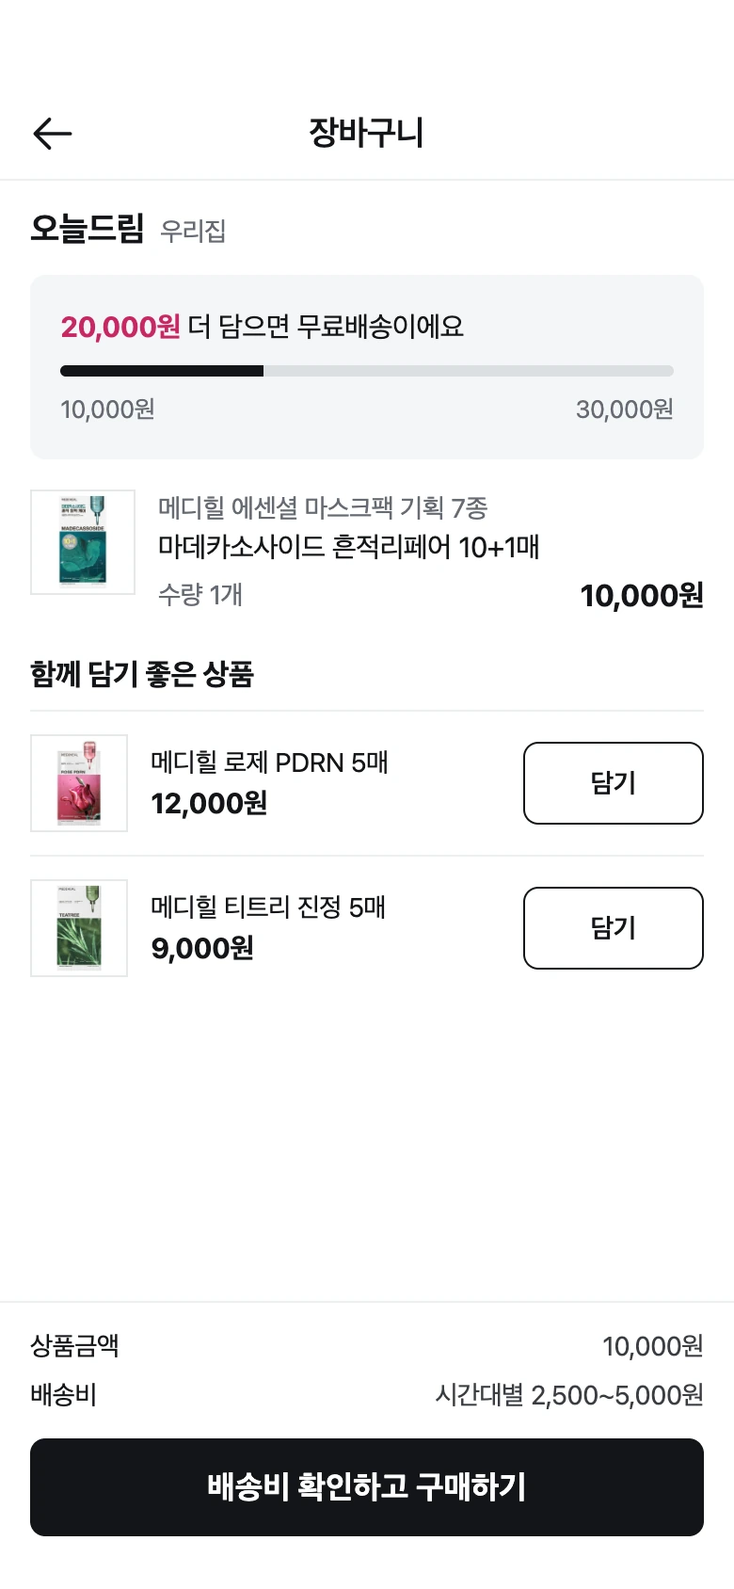
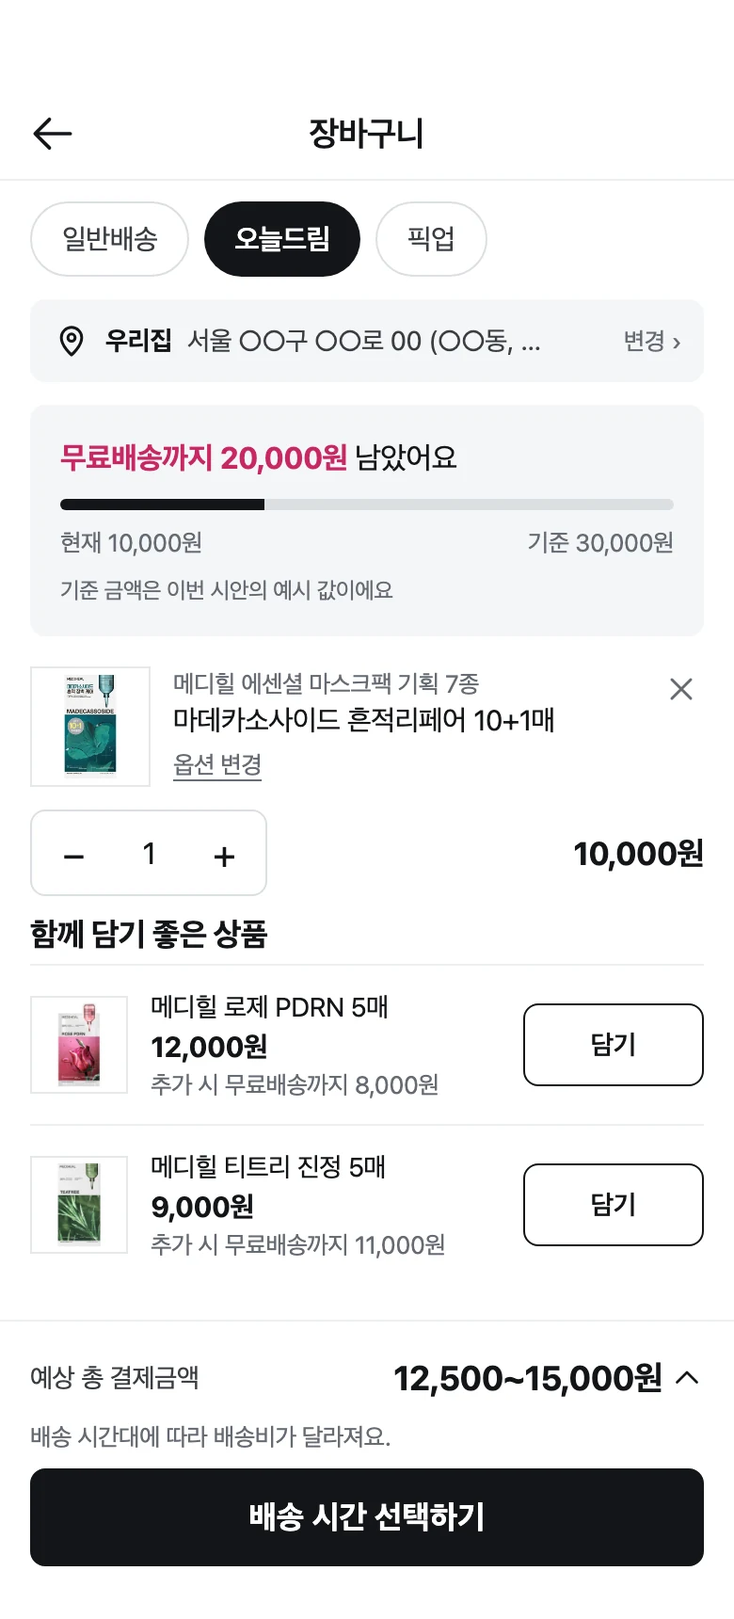
feat: 올리브영 장바구니 개편 반영(프로토타입 장바구니→배송 시간 선택 흐름, 장바구니 이미지, 설명 문구)

diff --git a/public/proto/oliveyoung/index.html b/public/proto/oliveyoung/index.html
@@ -128,24 +128,44 @@
   </sc-if>
 
   <sc-if value="{{isCart}}" hint-placeholder-val="{{ false }}">
-    <div style="position:absolute;left:0;right:0;top:47px;height:48px;display:grid;grid-template-columns:56px 1fr 56px;align-items:center;text-align:center;border-bottom:1px solid #EEEFF1"><button aria-label="시나리오 선택으로" onClick="{{restart}}" style="width:44px;height:44px;margin-left:6px;border:0;background:none;display:flex;align-items:center;justify-content:center"><svg width="28" height="28" viewBox="0 0 24 24" fill="none" stroke="#131518" stroke-width="1.6" stroke-linecap="round" stroke-linejoin="round" aria-hidden="true"><path d="M20 12H4.5M10.5 5.5L4 12l6.5 6.5"></path></svg></button><span style="font-size:18px;font-weight:600">장바구니</span><span></span></div>
-    <div style="position:absolute;left:0;right:0;top:96px;bottom:176px;overflow-y:auto;box-sizing:border-box"><div style="padding:16px">
-      <div style="font-size:18px;font-weight:700">오늘드림 <span style="font-size:14px;font-weight:400;color:#666B73;margin-left:4px">우리집</span></div>
+    <div style="position:absolute;left:0;right:0;top:47px;height:48px;display:grid;grid-template-columns:56px 1fr 56px;align-items:center;text-align:center;border-bottom:1px solid #EEEFF1"><button aria-label="처음으로" onClick="{{restart}}" style="width:44px;height:44px;margin-left:6px;border:0;background:none;display:flex;align-items:center;justify-content:center"><svg width="28" height="28" viewBox="0 0 24 24" fill="none" stroke="#131518" stroke-width="1.6" stroke-linecap="round" stroke-linejoin="round" aria-hidden="true"><path d="M20 12H4.5M10.5 5.5L4 12l6.5 6.5"></path></svg></button><span style="font-size:18px;font-weight:600">장바구니</span><span></span></div>
+    <div style="position:absolute;left:0;right:0;top:96px;bottom:176px;overflow-y:auto;box-sizing:border-box"><div style="padding:12px 16px 16px">
+      <div style="display:flex;gap:8px"><span style="height:40px;padding:0 16px;border-radius:20px;border:1px solid #DCDFE3;color:#3A3D42;font-size:15px;display:flex;align-items:center;box-sizing:border-box">일반배송</span><span style="height:40px;padding:0 16px;border-radius:20px;background:#131518;color:#fff;font-size:15px;font-weight:600;display:flex;align-items:center">오늘드림</span><span style="height:40px;padding:0 16px;border-radius:20px;border:1px solid #DCDFE3;color:#3A3D42;font-size:15px;display:flex;align-items:center;box-sizing:border-box">픽업</span></div>
+      <button onClick="{{changeAddr}}" aria-label="배송지 변경" style="margin-top:12px;width:100%;height:44px;border:0;border-radius:8px;background:#F5F6F8;padding:0 12px;display:flex;align-items:center;gap:8px;font-family:inherit;font-size:14px;color:#131518;text-align:left;letter-spacing:-0.3px"><svg width="20" height="20" viewBox="0 0 24 24" fill="none" stroke="#131518" stroke-width="1.8" stroke-linecap="round" stroke-linejoin="round" aria-hidden="true"><path d="M12 21s-6.5-5.6-6.5-11a6.5 6.5 0 0113 0c0 5.4-6.5 11-6.5 11z"></path><circle cx="12" cy="10" r="2.3"></circle></svg><b style="flex:none">우리집</b><span style="flex:1;min-width:0;white-space:nowrap;overflow:hidden;text-overflow:ellipsis;color:#3A3D42">서울 ○○구 ○○로 00 (○○동, …</span><span style="flex:none;color:#666B73;font-size:13px">변경 ›</span></button>
+      <sc-if value="{{addrCheck}}" hint-placeholder-val="{{ false }}"><div style="margin-top:12px;padding:12px 16px;border-radius:8px;background:#F5F6F8"><div style="font-size:14px;line-height:20px;font-weight:600">배송지를 확인하고 있어요</div><div style="font-size:13px;line-height:18px;color:#666B73;margin-top:2px">오늘드림 가능 여부, 추천 상품 재고, 배송 시간, 배송비를 다시 확인해요.</div></div></sc-if>
       <div style="margin-top:12px;padding:16px;border-radius:8px;background:#F5F6F8">
-        <sc-if value="{{notFree}}" hint-placeholder-val="{{ true }}"><div style="font-size:15px;line-height:22px"><b style="color:#C72764">{{remainText}}</b> 더 담으면 무료배송이에요</div></sc-if>
-        <sc-if value="{{freeShip}}" hint-placeholder-val="{{ false }}"><div style="font-size:15px;line-height:22px;font-weight:600">무료배송 조건을 채웠어요</div></sc-if>
+        <sc-if value="{{notFree}}" hint-placeholder-val="{{ true }}"><div style="font-size:16px;line-height:24px"><b style="color:#C72764">무료배송까지 {{remainText}}</b> 남았어요</div></sc-if>
+        <sc-if value="{{freeShip}}" hint-placeholder-val="{{ false }}"><div style="font-size:16px;line-height:24px;font-weight:700">무료배송 조건을 충족했어요</div></sc-if>
         <div style="margin-top:10px;height:6px;border-radius:3px;background:#DCDFE3;overflow:hidden"><div style="height:6px;background:#131518;width:{{progressPct}}"></div></div>
-        <div style="display:flex;justify-content:space-between;margin-top:6px;font-size:13px;color:#666B73"><span>{{subtotalText}}</span><span>30,000원</span></div>
+        <div style="display:flex;justify-content:space-between;margin-top:6px;font-size:13px;color:#666B73"><span>{{currentText}}</span><span>기준 30,000원</span></div>
+        <div style="margin-top:6px;font-size:12px;line-height:17px;color:#666B73">{{cardCaption}}</div>
       </div>
[1 lines of base64/hex data omitted]
-      <sc-for list="{{addedItems}}" as="a" hint-placeholder-count="0"><div style="display:flex;gap:12px;align-items:center;padding:12px 0;border-top:1px solid #EEEFF1"><div style="flex:none;width:56px;height:56px;border:1px solid #E6E8EA;background:#fff;display:flex;align-items:center;justify-content:center;overflow:hidden;box-sizing:border-box"><img src="{{a.img}}" alt="" style="height:50px;width:auto"></div><div style="flex:1;min-width:0"><div style="font-size:15px">{{a.name}}</div><div style="font-size:14px;color:#666B73">수량 1개 · {{a.priceText}}</div></div></div></sc-for>
-      <div style="font-size:16px;font-weight:700;margin-top:4px;padding-bottom:8px">함께 담기 좋은 상품</div>
-      <sc-for list="{{recs}}" as="r" hint-placeholder-count="2"><div style="display:flex;gap:12px;align-items:center;padding:12px 0;border-top:1px solid #EEEFF1"><div style="flex:none;width:52px;height:52px;border:1px solid #E6E8EA;background:#fff;display:flex;align-items:center;justify-content:center;overflow:hidden;box-sizing:border-box"><img src="{{r.img}}" alt="" style="height:46px;width:auto"></div><div style="flex:1;min-width:0"><div style="font-size:14px;line-height:20px">{{r.name}}</div><div style="font-size:15px;font-weight:700">{{r.priceText}}</div></div><button onClick="{{r.toggle}}" aria-pressed="{{r.added}}" style="{{r.btnStyle}}">{{r.btnText}}</button></div></sc-for>
+      <div style="display:flex;gap:12px;padding:16px 0 12px"><div style="flex:none;width:64px;height:64px;border:1px solid #E6E8EA;background:#fff;display:flex;align-items:center;justify-content:center;overflow:hidden;box-sizing:border-box"><img src="{{madeImg}}" alt="" style="height:56px;width:auto;max-width:100%"></div><div style="flex:1;min-width:0"><div style="font-size:13px;line-height:18px;color:#666B73">메디힐 에센셜 마스크팩 기획 7종</div><div style="font-size:15px;line-height:21px">마데카소사이드 흔적리페어 10+1매</div><div style="margin-top:2px;font-size:13px;color:#666B73;text-decoration:underline;text-underline-offset:3px">옵션 변경</div></div></div>
+      <div style="display:flex;justify-content:space-between;align-items:center"><div style="display:flex;align-items:center;border:1px solid #DCDFE3;border-radius:8px;height:44px"><button aria-label="수량 줄이기" onClick="{{qtyMinus}}" style="{{minusStyle}}">−</button><span style="width:36px;text-align:center;font-size:16px">{{qtyNum}}</span><button aria-label="수량 늘리기" onClick="{{qtyPlus}}" style="{{plusStyle}}">+</button></div><b style="font-size:17px">{{mainPriceText}}</b></div>
+      <sc-for list="{{addedItems}}" as="a" hint-placeholder-count="0"><div style="display:flex;gap:12px;align-items:center;padding:12px 0;margin-top:12px;border-top:1px solid #EEEFF1"><div style="flex:none;width:56px;height:56px;border:1px solid #E6E8EA;background:#fff;display:flex;align-items:center;justify-content:center;overflow:hidden;box-sizing:border-box"><img src="{{a.img}}" alt="" style="height:50px;width:auto"></div><div style="flex:1;min-width:0"><div style="font-size:15px">{{a.name}}</div><div style="font-size:14px;color:#666B73">수량 1개 · {{a.priceText}}</div></div><button aria-label="삭제" onClick="{{a.remove}}" style="flex:none;width:44px;height:44px;margin-right:-10px;border:0;background:none;display:flex;align-items:center;justify-content:center"><svg width="20" height="20" viewBox="0 0 24 24" fill="none" stroke="#666B73" stroke-width="1.8" stroke-linecap="round" aria-hidden="true"><path d="M6 6l12 12M18 6L6 18"></path></svg></button></div></sc-for>
+      <div style="font-size:17px;line-height:24px;font-weight:700;margin-top:16px;padding-bottom:4px">함께 담기 좋은 상품</div>
+      <sc-for list="{{recs}}" as="r" hint-placeholder-count="2"><div style="display:flex;gap:12px;align-items:center;padding:12px 0;border-top:1px solid #EEEFF1"><div style="flex:none;width:52px;height:52px;border:1px solid #E6E8EA;background:#fff;display:flex;align-items:center;justify-content:center;overflow:hidden;box-sizing:border-box"><img src="{{r.img}}" alt="" style="height:46px;width:auto"></div><div style="flex:1;min-width:0"><div style="font-size:14px;line-height:20px">{{r.name}}</div><div style="font-size:15px;font-weight:700">{{r.priceText}}</div><div style="font-size:13px;line-height:18px;color:#666B73">{{r.hint}}</div></div><button onClick="{{r.toggle}}" aria-disabled="{{r.blocked}}" style="{{r.btnStyle}}">{{r.btnText}}</button></div></sc-for>
     </div></div>
+    <div style="position:absolute;left:0;right:0;bottom:0;padding:8px 16px 28px;background:#FFFFFF;border-top:1px solid #EEEFF1">
+      <sc-if value="{{cartOpen}}" hint-placeholder-val="{{ false }}"><div style="padding:4px 0 8px"><div style="display:flex;justify-content:space-between;font-size:14px;color:#3A3D42"><span>상품금액</span><span>{{subtotalText}}</span></div><div style="display:flex;justify-content:space-between;font-size:14px;color:#3A3D42;margin-top:4px"><span>예상 배송비</span><span>{{cartFeeLine}}</span></div></div></sc-if>
+      <button onClick="{{cartToggle}}" aria-expanded="{{cartOpen}}" style="width:100%;display:flex;justify-content:space-between;align-items:center;min-height:44px;padding:0;border:0;background:none;font-family:inherit;letter-spacing:-0.3px;color:#131518"><span style="font-size:14px;color:#3A3D42">예상 총 결제금액</span><span style="display:flex;align-items:center;gap:4px;font-size:18px;font-weight:700">{{cartTotalText}}<svg width="18" height="18" viewBox="0 0 24 24" fill="none" stroke="#131518" stroke-width="1.8" stroke-linecap="round" stroke-linejoin="round" aria-hidden="true"><path d="{{cartChevron}}"></path></svg></span></button>
+      <div style="font-size:13px;line-height:18px;color:#666B73;margin-bottom:8px">{{cartHelper}}</div>
+      <button onClick="{{goSlot}}" aria-disabled="{{addrCheck}}" style="{{cartCtaStyle}}">{{cartCtaText}}</button>
+    </div>
+  </sc-if>
+
+  <sc-if value="{{isSlot}}" hint-placeholder-val="{{ false }}">
+    <div style="position:absolute;left:0;right:0;top:47px;height:48px;display:grid;grid-template-columns:56px 1fr 56px;align-items:center;text-align:center;border-bottom:1px solid #EEEFF1"><button aria-label="장바구니로" onClick="{{slotBack}}" style="width:44px;height:44px;margin-left:6px;border:0;background:none;display:flex;align-items:center;justify-content:center"><svg width="28" height="28" viewBox="0 0 24 24" fill="none" stroke="#131518" stroke-width="1.6" stroke-linecap="round" stroke-linejoin="round" aria-hidden="true"><path d="M20 12H4.5M10.5 5.5L4 12l6.5 6.5"></path></svg></button><span style="font-size:18px;font-weight:600">배송 시간 선택</span><span></span></div>
+    <div style="position:absolute;left:0;right:0;top:96px;bottom:176px;overflow-y:auto;box-sizing:border-box;padding:16px 16px 0">
+      <div style="font-size:15px;line-height:22px;color:#3A3D42">원하는 도착 시간과 배송비를 비교해 선택해 주세요.</div>
+      <sc-for list="{{slotChoices}}" as="t" hint-placeholder-count="3"><button onClick="{{t.pick}}" role="radio" aria-checked="{{t.selected}}" style="{{t.cardStyle}}"><span style="{{t.radioStyle}}"></span><span style="{{t.timeStyle}}">{{t.time}}</span><b style="font-size:17px">{{t.feeText}}</b></button></sc-for>
+      <div style="margin-top:16px;font-size:12px;line-height:17px;color:#666B73">시간과 배송비는 테스트 시나리오 값이에요. 실시간 배송 가능 정보가 아니에요.</div>
+    </div>
     <div style="position:absolute;left:0;right:0;bottom:0;padding:12px 16px 28px;background:#FFFFFF;border-top:1px solid #EEEFF1">
       <div style="display:flex;justify-content:space-between;font-size:14px;color:#3A3D42"><span>상품금액</span><span>{{subtotalText}}</span></div>
-      <div style="display:flex;justify-content:space-between;font-size:14px;color:#3A3D42;margin-top:4px"><span>배송비</span><span>{{cartFeeText}}</span></div>
-      <div style="margin-top:12px"><button onClick="{{goCheckout}}" style="height:52px;width:100%;font-size:17px;font-weight:700;font-family:inherit;border-radius:8px;background:#131518;color:#FFFFFF;border:1px solid #131518">배송비 확인하고 구매하기</button></div>
+      <div style="display:flex;justify-content:space-between;font-size:14px;color:#3A3D42;margin-top:4px"><span>배송비</span><span>{{slotFeeText}}</span></div>
+      <div style="display:flex;justify-content:space-between;align-items:baseline;margin-top:10px;padding-top:10px;border-top:1px solid #EEEFF1"><span style="font-size:15px;font-weight:600">예상 결제금액</span><b style="font-size:20px">{{slotTotalText}}</b></div>
+      <div style="margin-top:12px"><button onClick="{{slotContinue}}" aria-disabled="{{slotNone}}" style="{{slotCtaStyle}}">이 시간으로 계속하기</button></div>
     </div>
   </sc-if>
 

diff --git a/public/proto/oliveyoung/app.js b/public/proto/oliveyoung/app.js
@@ -63,7 +63,7 @@ class Component extends DCLogic {
     this.state = this.fresh(START, 'A');
   }
   fresh(screen, flow) {
-    return { screen: screen, flow: flow, panelOpen: false, recv: 'today', altStage: 'checking', altSel: null, stdTry: 0, stores: { E: 'fail', F: 'closed' }, query: '서울 구로구', intent: 'buy', dTried: false, pickStore: null, method: 'today', slot: 's1', recs: {}, g1Open: false, benefitsOpen: false, teaStage: 'fail', stdInfoOpen: false, optSel: null, qty: 1, optMode: 'A', usePoint: false, agree: false, triedPay: false, stockHit: false, restocked: false, returnTo: 'alt' };
+    return { screen: screen, flow: flow, panelOpen: false, recv: 'today', altStage: 'checking', altSel: null, stdTry: 0, stores: { E: 'fail', F: 'closed' }, query: '서울 구로구', intent: 'buy', dTried: false, pickStore: null, method: 'today', slot: 's1', recs: {}, slotSel: null, cartOpen: false, addrCheck: false, g1Open: false, benefitsOpen: false, teaStage: 'fail', stdInfoOpen: false, optSel: null, qty: 1, optMode: 'A', usePoint: false, agree: false, triedPay: false, stockHit: false, restocked: false, returnTo: 'alt' };
   }
   componentWillUnmount() { this.timers.forEach(function (t) { clearTimeout(t); }); }
   later(fn, ms) { this.timers.push(setTimeout(fn, ms)); }
@@ -186,13 +186,17 @@ class Component extends DCLogic {
       };
     });
     const productName = isC ? '마데카소사이드 흔적리페어 10+1매' : '로제 PDRN 모공결광 10매';
-    const addedItems = recDefs.filter((r) => st.recs[r.id]).map((r) => ({ name: r.name, img: r.img, priceText: fmt(r.price) }));
+    const recImg = { r1: IMG.rose, r2: IMG.tea };
+    const addedItems = recDefs.filter((r) => st.recs[r.id]).map((r) => ({ name: r.name, img: recImg[r.id], priceText: fmt(r.price), remove: () => { const n = Object.assign({}, this.state.recs); n[r.id] = false; this.setState({ recs: n }); } }));
     const recs = recDefs.map((r) => {
       const added = !!st.recs[r.id];
+      const after = subtotal + r.price;
+      const hint = added ? '장바구니에 담았어요' : (st.addrCheck ? '재고 확인 중' : (free ? '무료배송 조건을 충족한 상태예요' : (after >= 30000 ? '추가하면 무료배송 조건을 충족해요' : '추가 시 무료배송까지 ' + fmt(30000 - after))));
+      const blocked = added || st.addrCheck;
       return {
-        name: r.name, img: r.img, priceText: fmt(r.price), added: added, btnText: added ? '담김' : '담기',
-        toggle: () => { const n = Object.assign({}, this.state.recs); n[r.id] = !n[r.id]; this.setState({ recs: n }); },
-        btnStyle: 'flex:none;width:96px;height:44px;border-radius:8px;font-size:14px;font-family:inherit;' + (added ? 'border:1px solid #DCDFE3;background:#F5F6F8;color:#3A3D42' : 'border:1px solid #131518;background:#FFFFFF;color:#131518;font-weight:600')
+        name: r.name, img: recImg[r.id], priceText: fmt(r.price), added: added, hint: hint, blocked: blocked, btnText: added ? '추가됨' : (st.addrCheck ? '확인 중' : '담기'),
+        toggle: () => { if (blocked) return; const n = Object.assign({}, this.state.recs); n[r.id] = true; this.setState({ recs: n }); },
+        btnStyle: 'flex:none;width:96px;height:44px;border-radius:8px;font-size:14px;font-family:inherit;' + (blocked ? 'border:1px solid #DCDFE3;background:#F5F6F8;color:#3A3D42' : 'border:1px solid #131518;background:#FFFFFF;color:#131518;font-weight:600')
       };
     });
     const doneMethod = st.method === 'today' ? '오늘드림 · 11/17 ' + times[st.slot] : st.method === 'pickup' ? '매장 픽업 · ' + storeName : '일반배송';
@@ -220,7 +224,7 @@ class Component extends DCLogic {
       flowLabel: !SCENARIOS ? '' : sc === 'home' ? '프로토타입 · 시뮬레이션' : 'Flow ' + (flow === 'S' ? 'G' : flow) + ' · 시뮬레이션',
       showDetail: ['detail', 'options', 'alt', 'restock', 'restockDone'].indexOf(sc) >= 0,
       isOptions: sc === 'options', isAlt: sc === 'alt', isRestock: sc === 'restock', isRestockDone: sc === 'restockDone',
-      isStore: sc === 'store', isCart: sc === 'cart', isCheckout: sc === 'checkout' || sc === 'stockChanged', isStockChanged: sc === 'stockChanged', isDone: sc === 'done',
+      isStore: sc === 'store', isCart: sc === 'cart', isSlot: sc === 'slot', isCheckout: sc === 'checkout' || sc === 'stockChanged', isStockChanged: sc === 'stockChanged', isDone: sc === 'done',
       startA: () => this.setState(this.fresh('detail', 'A')),
       startB: () => this.setState(this.fresh('detail', 'B')),
       startC: () => this.setState(this.fresh('detail', 'C')),
@@ -308,10 +312,34 @@ class Component extends DCLogic {
       productName: productName, productImg: isC ? IMG.made : IMG.roseS,
       freeShip: free, notFree: !free,
       remainText: fmt(Math.max(0, 30000 - subtotal)),
-      progressPct: Math.min(100, Math.round(subtotal / 300)) + '%',
+      progressPct: +Math.min(100, subtotal / 300).toFixed(1) + '%',
       subtotalText: fmt(subtotal),
       cartFeeText: free ? '무료' : '배송 시간에 따라 2,500~5,000원',
-      recs: recs, addedItems: addedItems,
+      recs: recs, addedItems: addedItems, madeImg: IMG.made, currentText: '현재 ' + fmt(subtotal),
+      cardCaption: free ? '실제 무료배송 적용 여부는 선택한 배송 조건에 따라 다시 확인해요' : '기준 금액은 이번 시안의 예시 값이에요',
+      qtyNum: st.qty, mainPriceText: fmt(10000 * st.qty),
+      qtyMinus: () => { if (this.state.qty > 1) this.setState({ qty: this.state.qty - 1 }); },
+      qtyPlus: () => { if (this.state.qty < 5) this.setState({ qty: this.state.qty + 1 }); },
+      minusStyle: 'width:44px;height:44px;border:0;background:none;font-size:20px;font-family:inherit;color:' + (st.qty <= 1 ? '#C5C9CE' : '#131518'),
+      plusStyle: 'width:44px;height:44px;border:0;background:none;font-size:20px;font-family:inherit;color:' + (st.qty >= 5 ? '#C5C9CE' : '#131518'),
+      addrCheck: st.addrCheck,
+      changeAddr: () => { if (this.state.addrCheck) return; this.setState({ addrCheck: true }); this.later(() => this.setState({ addrCheck: false }), 1100); },
+      cartOpen: st.cartOpen, cartToggle: () => this.setState({ cartOpen: !this.state.cartOpen }), cartChevron: st.cartOpen ? 'M5 9l7 7 7-7' : 'M5 15l7-7 7 7',
+      cartTotalText: free ? fmt(subtotal) : (subtotal + 2500).toLocaleString('ko-KR') + '~' + fmt(subtotal + 5000),
+      cartFeeLine: free ? '확인 후 확정 (무료 가능)' : '2,500~5,000원',
+      cartHelper: st.addrCheck ? '배송비를 다시 확인하고 있어요.' : (free ? '배송비는 배송 조건을 확인한 뒤 확정돼요.' : '배송 시간대에 따라 배송비가 달라져요.'),
+      cartCtaText: st.addrCheck ? '확인 중' : '배송 시간 선택하기',
+      cartCtaStyle: 'height:52px;width:100%;font-size:17px;font-weight:700;font-family:inherit;border-radius:8px;' + (st.addrCheck ? 'border:0;background:#DCDFE3;color:#5E636B' : 'border:1px solid #131518;background:#131518;color:#FFFFFF'),
+      goSlot: () => { if (!this.state.addrCheck) this.setState({ screen: 'slot' }); },
+      slotBack: () => this.setState({ screen: 'cart' }),
+      slotChoices: ['s1', 's2', 's3'].map((id) => { const sel = st.slotSel === id; return { time: times[id], feeText: free ? '무료' : fmt(base[id]), selected: sel, pick: () => this.setState({ slotSel: id }),
+        cardStyle: 'width:100%;display:flex;align-items:center;gap:12px;padding:16px;border-radius:12px;box-sizing:border-box;margin-top:12px;font-family:inherit;color:#131518;text-align:left;letter-spacing:-0.3px;' + (sel ? 'border:1.5px solid #131518;background:#F5F6F8' : 'border:1px solid #DCDFE3;background:#FFFFFF'),
+        radioStyle: 'flex:none;' + (sel ? rOn : rOff), timeStyle: 'flex:1;font-size:17px;line-height:24px;' + (sel ? 'font-weight:700' : 'font-weight:500') }; }),
+      slotNone: !st.slotSel,
+      slotFeeText: st.slotSel ? (free ? '무료' : fmt(base[st.slotSel])) : '시간을 선택하면 확인할 수 있어요',
+      slotTotalText: st.slotSel ? fmt(subtotal + (free ? 0 : base[st.slotSel])) : (free ? fmt(subtotal) : (subtotal + 2500).toLocaleString('ko-KR') + '~' + fmt(subtotal + 5000)),
+      slotCtaStyle: 'height:52px;width:100%;font-size:17px;font-weight:700;font-family:inherit;border-radius:8px;' + (st.slotSel ? 'border:1px solid #131518;background:#131518;color:#FFFFFF' : 'border:0;background:#DCDFE3;color:#5E636B'),
+      slotContinue: () => { if (this.state.slotSel) this.setState({ slot: this.state.slotSel, method: 'today', screen: 'checkout', intent: 'buy', g1Open: false }); },
       scrollRecs: () => { const n = Object.assign({}, this.state.recs); if (!n.r1) n.r1 = true; else n.r2 = true; this.setState({ recs: n }); },
       goCheckout: () => this.setState({ method: 'today', screen: 'checkout', intent: 'buy' }),
       checkoutBack: () => this.setState({ screen: isC ? 'cart' : 'alt' }),

diff --git a/src/pages/CaseGeneric.tsx b/src/pages/CaseGeneric.tsx
@@ -160,19 +160,20 @@ function OliveRenewed({ c }: { c: Ctx }) {
             <div className="mt-14 rounded-[28px] bg-white p-6 md:p-10">
               <p className="eyebrow" style={{ color: S }}>After · 개선안</p>
               <div className="mt-6 grid items-start gap-10 md:grid-cols-12">
-                <div className="mx-auto w-full max-w-[380px] md:col-span-5"><Fig src={I('n-cart')} alt="무료배송 남은 금액, 현재 상품, 연관 상품과 담기 버튼을 한 흐름으로 보여주는 장바구니 개선 화면" cap="무료배송 조건과 장바구니 상품 기반 연관 상품을 한 흐름에서 안내" /></div>
+                <div className="mx-auto w-full max-w-[380px] md:col-span-5"><Fig src={I('n-cart')} alt="무료배송 남은 금액, 현재 상품, 연관 상품과 담기 버튼을 한 흐름으로 보여주는 장바구니 개선 화면" cap="무료배송까지 남은 금액, 수량 조절, 추천 상품, 배송 시간 선택으로 이어지는 하단 CTA" /></div>
                 <ol className="space-y-6 md:col-span-7">
                   {[
-                    ['01', '무료배송 조건의 가시성', '현재 상품금액 10,000원, 기준 30,000원, 남은 금액 20,000원을 프로토타입 예시 조건으로 분명하게 보여줍니다.'],
-                    ['02', '구매 맥락에 맞는 연관 상품', '장바구니에 담긴 마스크팩과 함께 고려할 수 있는 메디힐 상품 두 개에 집중했습니다. AI 개인화 추천이 아니라 장바구니 상품 기반 제안입니다.'],
-                    ['03', '탐색과 행동의 거리 축소', '무료배송 조건 아래에 현재 상품과 추천 상품, 담기 버튼을 배치해 판단 직후 다음 행동으로 이어지게 했습니다.'],
+                    ['01', '무료배송 조건의 가시성', '현재 10,000원, 기준 30,000원, 남은 금액 20,000원과 진행 바(33.3%)를 한 카드에 모았습니다. 기준 금액은 프로토타입 예시 값입니다.'],
+                    ['02', '추가 구매에 따른 비용 변화', '추천 상품마다 담았을 때 무료배송까지 남는 금액을 보여주고, 담으면 진행 바와 예상 결제금액이 바로 바뀝니다. 담지 않아도 구매를 이어갈 수 있습니다.'],
+                    ['03', '배송 시간과 배송비 사전 비교', '하단 CTA를 누르면 세 시간대의 배송비를 모두 비교해 고를 수 있고, 선택에 따라 결제금액이 바뀐 채 주문/결제로 이어집니다.'],
                   ].map(([n, title, body]) => <li key={n} className="border-t border-grid pt-5"><p className="text-[13px] font-bold" style={{ color: S }}>Decision {n}</p><h4 className="mt-2 text-[20px] font-bold">{title}</h4><p className="mt-2 text-[15px] leading-[1.75] text-sub">{body}</p></li>)}
                 </ol>
               </div>
+              <div className="mt-10 grid grid-cols-2 gap-5 md:mx-auto md:max-w-[760px] md:gap-8"><Fig src={I('n-cartAdded')} alt="추천 상품을 담은 뒤 무료배송까지 8,000원 남은 장바구니" cap="추천 상품을 담으면 남은 금액 8,000원으로 갱신" /><Fig src={I('n-slotSelect')} alt="세 시간대의 배송비를 비교하고 15:00~16:00을 선택한 화면" cap="배송 시간대별 배송비 비교 후 선택" className="md:mt-14" /></div>
             </div>
             <div className="mt-10 grid gap-5 md:grid-cols-2">
-              <div className="rounded-[24px] bg-[#EAF4DB] p-6 md:p-8"><p className="eyebrow" style={{ color: S }}>Qualitative feedback</p><ul className="mt-4 space-y-3 text-[16px] leading-[1.7]"><li>무료배송까지 더 담아야 할 금액을 이해하기 쉬웠음</li><li>기존에 구매하려던 상품과 관련된 추천이 자연스럽게 느껴졌음</li><li>추천 상품을 보며 추가 구매를 긍정적으로 고려하게 됐음</li></ul><p className="mt-5 text-[13px] leading-[1.65] text-sub">정성적 반응이며 실제 추가 구매 행동이나 금액·매출 지표는 측정하지 않았습니다.</p></div>
-              <div className="rounded-[24px] border border-grid bg-white p-6 md:p-8"><p className="eyebrow text-sub">후속 보완 방향 · 미구현</p><ul className="mt-4 list-disc space-y-2 pl-5 text-[15px] leading-[1.7] text-sub"><li>옵션·수량 변경, 상품 삭제와 선택 상태 보완</li><li>배송지 확인·변경 경로 추가</li><li>실제 다음 단계에 맞는 CTA 문구 확정</li><li>상품 추가 후 금액·프로그레스·안내의 일관된 갱신</li></ul></div>
+              <div className="rounded-[24px] bg-[#EAF4DB] p-6 md:p-8"><p className="eyebrow" style={{ color: S }}>Qualitative feedback</p><ul className="mt-4 space-y-3 text-[16px] leading-[1.7]"><li>무료배송까지 더 담아야 할 금액을 이해하기 쉬웠음</li><li>기존에 구매하려던 상품과 관련된 추천이 자연스럽게 느껴졌음</li><li>추천 상품을 보며 추가 구매를 긍정적으로 고려하게 됐음</li></ul><p className="mt-5 text-[13px] leading-[1.65] text-sub">정성적 반응이며 실제 추가 구매 행동이나 금액·매출 지표는 측정하지 않았습니다. 이 반응은 이번 개편(수량·삭제·배송 시간 선택 추가) 이전 장바구니 시안 기준입니다.</p></div>
+              <div className="rounded-[24px] border border-grid bg-white p-6 md:p-8"><p className="eyebrow text-sub">후속 보완 방향 · 미구현</p><ul className="mt-4 list-disc space-y-2 pl-5 text-[15px] leading-[1.7] text-sub"><li>품절·배송비 조회 실패·재고 변동 등 예외 상태는 화면으로만 설계했고 프로토타입에는 미구현</li><li>실제 배송 가능 시간·재고·배송비 연동 없이 시나리오 값 사용</li><li>쿠폰·결제수단 할인까지 반영한 최종 결제금액 확인</li><li>배송지 변경은 재확인 상태만 시연</li></ul></div>
             </div>
             <div className="mt-5 rounded-[20px] bg-white/70 p-6 text-[15px] leading-[1.7] text-sub"><b className="text-ink">Future validation</b><br />“무료배송까지 남은 금액을 확인하고 필요한 상품을 추가해 구매를 진행해 주세요” 과제로 조건 확인 시간, 추천 발견 여부, 선택 이유와 혼란 지점을 추후 검증할 수 있습니다. 아직 수행한 테스트로 표현하지 않습니다.</div>
           </article>

diff --git a/src/data/projects.ts b/src/data/projects.ts
@@ -45,7 +45,7 @@ export const projects: Project[] = [
       title: '매출과 연결되는 구매 구간도 함께 개선',
       intro: '품절 이후의 대체 구매 흐름과 함께 장바구니, 배송 시간, 주문·결제, 상품 상세 하단도 개선했습니다. 구매 결정을 돕기 위한 설계 제안이며, 실제 매출 효과는 측정하지 않았습니다.',
       bullets: [
-        '장바구니: 무료배송 기준까지 남은 금액을 안내하고, 함께 담기 좋은 상품을 제안합니다.',
+        '장바구니: 무료배송까지 남은 금액과 추천 상품을 담았을 때의 금액 변화를 보여주고, 배송 시간대별 배송비를 비교해 고르게 했습니다.',
         '배송 시간: 주문/결제의 배송·수령 정보를 펼치면 날짜와 시간대별 배송비를 함께 보여주고, 무료배송까지 남은 금액을 안내합니다.',
         '주문·결제: 한 페이지에 길게 이어지던 정보를 배송·수령 / 할인·혜택 / 최종 결제의 3그룹으로 정리하고 접고 펼 수 있게 했습니다.',
         '상품 상세 하단: 오늘드림과 매장 픽업 중 수령 방법을 고르는 패널로 정리했습니다.',
